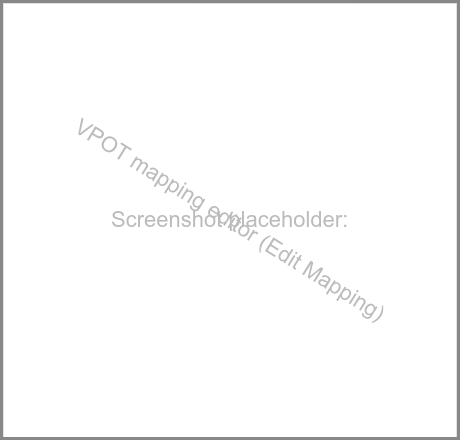
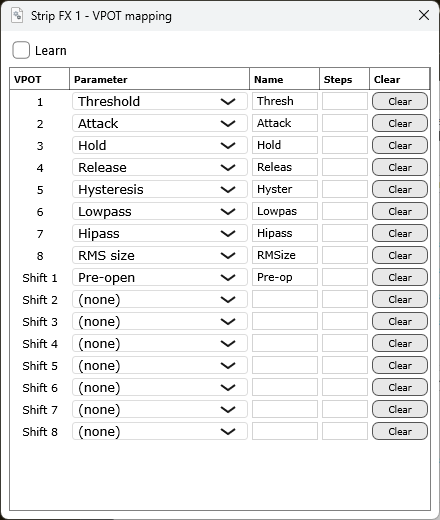
improved manual

diff --git a/manual/text_en/plugmode.tex b/manual/text_en/plugmode.tex
@@ -1,6 +1,6 @@
 \subsection{FX-Mode}\label{plugmode} 
 
-The FX-Mode allows you to edit FX parameters. To structure the hugh
+The FX-Mode allows you to edit FX parameters. To structure the huge
 amount of parameters that a FX can have, the parameters are divided
 into "Banks" and "Pages". Each Page can control up to 16 parameters (8
 with the \faders and 8 with the \vpots), and each Bank contains 8
@@ -8,7 +8,7 @@ Pages. A map consists of 8 Banks.
 
 The parameters mapped to \faders are controlled as continuous
 parameters (like e.g. thresholds, frequencies, etc.), the parameters
-mapped to \vpots are handled as discreet parameters with a limited
+mapped to \vpots are handled as discrete parameters with a limited
 number of values (e.g. for On/Off buttons or the selection of a
 Waveform). The \flip button bypasses the FX, the master fader controls
 the Dry/Wet level, holding the \alt modifier and pressing \flip
@@ -18,9 +18,7 @@ alternative to enabling/disabling certain plugins if you're attempting
 to assess the audible qualities the plugin imparts on the source.
 
 
-Factory FX maps are not included in the current testing builds. A
-future ReaPack distribution is planned and will include the factory maps
-again. You can also create your own maps for the selected FX using the
+You can also create your own maps for the selected FX using the
 \mapeditor (see section~\ref{createmaps} for details). If no map exists
 for an FX, a mapping is created automatically. In this case parameters
 that are detected as discrete (e.g.\ on/off switches or waveform
@@ -40,7 +38,7 @@ Bank/Page is selected, it illuminates, if the Bank/ Page contains parameters
 that can be controlled, or is off if neither is the case.
 
 An FX can be selected by pressing the \plug button of the VPOT ASSIGN
-section a second time. Then the names of up to six FXs are displeyed
+section a second time. Then the names of up to six FXs are displayed
 and can be selected by pressing the corresponding \vpot. The two other
 \vpots allow you to scroll through the FXs. An FX can also be selected
 by pressing the \select buttons. They select one of the first 8 FXs,
@@ -51,7 +49,7 @@ FXs 9-16.
 
 \subsubsection{Map Creation}\label{createmaps}
 
-You can create your own maps can with the
+You can create your own maps with the
 \hyperref[F:Screenshot_Plug_Mode]{Mapping editor} which can be opened
 via \alt \plug (see Figure~\ref{F:Screenshot_Plug_Mode}). 
 
@@ -80,7 +78,7 @@ created short names use a heuristic that keeps them distinguishable
 on the display.
 
 When an FX is selected via the MCU or the name of the selected FX is
-changed in the Track FX dialog, a map is loaded if it's name is part
+changed in the Track FX dialog, a map is loaded if its name is part
 of the FX name. E.g.  if the FX name is "VST: ReaEQ (Cockos)" and a
 map "ReaEQ" exists, this map will be loaded. First the user-created
 maps \footnote{Which are stored in the {\tt My
@@ -101,9 +99,7 @@ loaded automatically. The FX is matched to the maps using the FX name
 in the FX: Track window of \reaper. It is important to keep in mind
 that FX maps are not cached in the memory (except
 \hyperref[localmaps]{Local maps} which are explained in the next
-section). Factory maps are currently absent from the testing downloads;
-see section~\ref{installation} for the planned ReaPack distribution.
-So if you edit a map and then select a different FX, these changes are lost. When you start to work on a map, it is a good idea
+section). So if you edit a map and then select a different FX, these changes are lost. When you start to work on a map, it is a good idea
 to save an empty map and activate the Autosave option in the Mapping
 editor (you must save the map first, so that the Autosave function
 knows a filename). When Autosave is enabled, the map will be saved
@@ -227,7 +223,7 @@ Table~\ref{T:plugmode_options2} for details.
 \subsubsection{Summary}
 
 \begin{itemize}
-\item \vpot: Control discreet parameters. You can select the next
+\item \vpot: Control discrete parameters. You can select the next
   value by pressing the \vpot. In combination with \shift you select
   the previous. If it was the highest value, you will jump to the
   lowest (e.g. if only two values exist e.g. Off and On, you will

diff --git a/manual/text_en/installation.tex b/manual/text_en/installation.tex
@@ -1,35 +1,36 @@
 \newpage
 \section{Installation}\label{installation} 
 
-The current test builds of the extension can be downloaded from
-\url{https://sync.luckycloud.de/d/8b55110a1a8b41f3b18b/}. The folder currently
-contains builds for all three supported platforms:
-\begin{itemize}
-\item Windows: choose the package containing the \texttt{.dll}; use this on
-  64-bit Windows.
-\item Linux: choose the package containing the \texttt{.so}; use this on
-  Linux x86\_64.
-\item macOS: choose the package containing the \texttt{.dylib}; use this on
-  Apple Silicon
-  Macs (arm64) running macOS 11 or newer. The macOS build does not support
-  Intel Macs.
-\end{itemize}
-During the testing phase, the downloads do not include the FX maps. A switch
-from the test-build downloads to ReaPack is planned; the FX maps will be
-included again with that distribution.
+The current (latest) builds of the extension can be always downloaded from
+\url{https://sync.luckycloud.de/d/8b55110a1a8b41f3b18b/}. The download
+page offers two options: the ``Download data'' button creates a single zip
+archive containing the builds for all three supported platforms, or the
+individual files can be downloaded separately.
 
-To install the extension:
+To install the extension the first time:
 \begin{enumerate}
-\item open the \reaper resources path, e.g. via
+\item Download the complete folder via the ``Download data'' button.
+\item Open the \reaper resources path, e.g. via
 \reaper by selecting the menu-entry: {\tt Options/ Show \reaper
   resource path in explorer/finder...}.
 \item Locate the {\tt UserPlugins} folder within the \reaper resource path.
-\item Unpack the downloaded package into the {\tt UserPlugins} directory.
+\item Unpack the downloaded zip archive and copy its complete
+  contents into the {\tt UserPlugins} directory.
 \end{enumerate}
 
-Afterwards, the {\tt UserPlugins} folder contains the platform-specific
-{\tt reaper\_csurf\_mcu\_klinke} plugin file. The testing downloads do not
-contain the {\tt MCU} folder or factory FX maps. Your own configuration files
+Afterwards, the {\tt UserPlugins} folder contains the
+plugin files of all three platforms; \reaper loads the file matching the
+platform it runs on, leaving the other two files in place is harmless:
+\begin{itemize}
+\item Windows: the \texttt{.dll}; use this on 64-bit Windows.
+\item Linux: the \texttt{.so}; use this on Linux x86\_64.
+\item macOS: the \texttt{.dylib}; use this on Apple Silicon Macs (arm64)
+  running macOS 11 or newer. The macOS build does not support Intel Macs.
+\end{itemize}
+
+To update the extension, it is sufficient to overwrite the existing
+platform-specific plugin file in the {\tt UserPlugins} folder with the new
+one. Your own configuration files
 and FX maps are stored in the folder {\tt My Documents\textbackslash Reaper\textbackslash MCU}
 on Windows and in {\tt ~/.config/REAPER/MCU} on Linux and macOS. These folders
 are created when you start the \mcu surface for the first time.\\ 

diff --git a/manual/text_en/panmode.tex b/manual/text_en/panmode.tex
@@ -74,9 +74,9 @@ idea behind this is that the folder structure corresponds to
 sub-mixes, and you can easily select and work on a single sub-mix or
 go back a step and mix only on the level of the sub-mixes. This can
 improve track navigation a lot.\footnote{Theoretically, you can create a
-  structure with 584 tracks and each track is no more then five clicks
+  structure with 584 tracks and each track is no more than five clicks
   away. Or in combination with the \hyperref[quickjump]{Quick Jump}
-  feature, no more then three click.} When you switch to Folder-Mode, only
+  feature, no more than three clicks.} When you switch to Folder-Mode, only
 tracks are shown that have the Master track as their root. For all
 tracks that have children, the LED below the \vpot is illuminated. You can
 select these tracks as a new root track by pressing the
@@ -86,7 +86,7 @@ the root track, press the \gv button.
 \subsubsection{Editor}\label{panmodeeditor}
 Before other concepts are introduced, it is useful to take a look at the
 \hyperref[F:Screenshot_Track_Mode]{Track Settings Editor} in
-Figure~\ref{F:Screenshot_Track_Mode}.\footnote{To safe space, the screenshot
+Figure~\ref{F:Screenshot_Track_Mode}.\footnote{To save space, the screenshot
 displays less tracks then the real editor.} You can open this editor by pressing
 \alt \pan. 
 
@@ -140,7 +140,7 @@ anchor tracks are shown on the MCU even when they are not part of the
 sub-mix displayed.
 
 I suggest avoiding gaps between anchored Channel Strips because otherwise navigation
-throgh tracks can get confusing.
+through tracks can get confusing.
 
 It is possible to turn off all anchors via the ``Use Anchor''
 \attribute in the \hyperref[T:multitrack_options1]{Main Options}, in
@@ -164,7 +164,7 @@ Pads for this purpose:
 \begin{compactitem}
 \item Jump Slot: This column determines the tracks which can be
   selected as leftmost shown tracks.
-\item J. Name: If empty, the name displayd will be the same as the
+\item J. Name: If empty, the name displayed will be the same as the
   track name. It can be useful to replace the track name by a
   different name in the Quick Jump display.  E.g. if the track is
   named ``BD'' and the following tracks are named ``SD'', ``Hi Hat''
@@ -189,7 +189,7 @@ already explained in the sections before.
 
 The 2nd Options are shown in Table~\ref{T:multitrack_options2}. They allow to
 synchronize the tracks in the TCP/mixer to the tracks shown on the MCU, or, in
-the caseof the TCP, only the tracks are shown that are selected.
+the case of the TCP, only the tracks are shown that are selected.
 
 \pikTable[15cm]{multitrack_options2}{2nd Options in Pan-Mode and Action-Mode
 (\shift \option)}{}{} 

diff --git a/manual/text_en/channelstrip.tex b/manual/text_en/channelstrip.tex
@@ -98,7 +98,7 @@ Strip-Mode editor}, which can be opened with \alt \track (see
 Figure~\ref{F:Screenshot_ChannelStrip_Mode}). The editor is global: it shows
 the 16 channel strip FXs independently of the selected track or unit.
 
-\pikFigure[0.62][11.5cm][-2.4mm]{Screenshot_ChannelStrip_Mode}{Channel
+\pikFigure[0.62][13.9cm][-2.4mm]{Screenshot_ChannelStrip_Mode}{Channel
   Strip-Mode editor (\alt \track)}{}{}
 
 Each row of the table represents one of the 16 global strips. The columns
@@ -146,8 +146,8 @@ The ``Edit Mapping'' button of a strip FX opens the
 Figure~\ref{F:Screenshot_ChannelStrip_Mapping}). It shows 16 rows
 (VPOT 1\,--\,8 and Shift 1\,--\,Shift 8), one for each \vpot of the strip.
 
-\pikFigure[0.6][9.0cm][-2.2mm]{Screenshot_ChannelStrip_Mapping}{VPOT mapping
-  editor (\texttt{Edit Mapping})}{}{}
+\pikFigure[0.62][7.7cm][-2.2mm]{Screenshot_ChannelStrip_Mapping}{Strip mapping
+  editor}{}{}
 
 For each row you select the parameter of the strip's plugin that the
 \vpot should control in the \textbf{Parameter} column. The parameter

diff --git a/manual/text_en/support.tex b/manual/text_en/support.tex
@@ -8,6 +8,14 @@ e.g. via this thread
 And an issue tracker can be found at
 \url{https://github.com/s-fuerst/CSurf_Klinke_MCU/issues}.
 
+\subsection{AI-Assisted Development}
+Since version 0.9.5, the development of the extension takes place with
+the aid of AI/LLMs. If this bothers you, the last version developed
+without AI support is 0.9.1.3, which can be downloaded from
+\url{https://sync.luckycloud.de/d/a1228aa877344415}. Please note
+that this version is Windows-only and does not include the extender
+support introduced in version 0.9.5.
+
 \subsection{Donations}
 Writing the plugin was a lot of work (but also fun most of the time),
 writing this manual too (without the fun part). So acknowledgments in the

diff --git a/manual/text_en/sendmode.tex b/manual/text_en/sendmode.tex
@@ -32,7 +32,7 @@ the \rec buttons and press then one of the Automation Mode buttons.
 
 \subsubsection{Meterbridge}
 In the Send-Mode, the Meterbridge shows the levels of the receiving
-(or sending) tracks (and not the amount of the signal that is send to
+(or sending) tracks (and not the amount of the signal that is sent to
 (or from) the track). On the \textsc{Icon QCon Pro X} the master
 section of the meterbridge shows the level of the selected track (and
 not of the master track), since this is also the signal controlled with

diff --git a/manual/text_en/credits.tex b/manual/text_en/credits.tex
@@ -5,7 +5,7 @@ I want to thank:
 \item Icon Pro Audio for sending me a QCon Pro X
 \item Kathrin for proof-reading the v0.8.0 manual and being such a great
   hiking companion
-\item Alex Hayes (plant-on) and Carlos Nunes for commiting bugfixes
+\item Alex Hayes (plant-on) and Carlos Nunes for committing bugfixes
   and improving the code
 \item Justin for always improving the \reaper API when I need
   additional features (and of course \reaper in general)

diff --git a/manual/text_en/actionmode.tex b/manual/text_en/actionmode.tex
@@ -35,7 +35,7 @@ editor}.
 
 Additionally the Action-Mode also supports  ``(midi cc only)'' actions. Therefore
 you can enable in the \hyperref[F:Screenshot_Action_Mode]{Action-Mode
-editor} the ``Relative Mode'', then the CCs that are send to \reaper are
+editor} the ``Relative Mode'', then the CCs that are sent to \reaper are
 ``Relative 2'' instead of ``Absolute''. 
 
 \pikWrapFigure[][6.1cm][-2.5mm]{assignrelativ}{Assignment dialog}{}{}

diff --git a/manual/text_en/region.tex b/manual/text_en/region.tex
@@ -4,7 +4,7 @@
 \bemod
 \begin{itemize}
 	\item \control: Store Marker 1--8
-	\item \shift: Create Loop from currect EditCursor position to Marker 1--8
+	\item \shift: Create Loop from current EditCursor position to Marker 1--8
 	\item \shift \option: Change Time Selection from current EditCursor position to Marker 1--8
 	\item \shift \alt: Same as Shift F1-F8
 	\item \option: Set Time Selection to Region 1--8

diff --git a/manual/text_en/overview.tex b/manual/text_en/overview.tex
@@ -4,7 +4,7 @@
 
 %% Figure~\ref{F:MCU_Overview} shows the MCU hardware and how its elements are
 %% partitioned:
-The elements of the Mackie Controller/Icon QCon Pro X are seperated
+The elements of the Mackie Controller/Icon QCon Pro X are separated
 into the following sections:
 
 \begin{itemize}

diff --git a/manual/tables_en/multitrack_options2.tex b/manual/tables_en/multitrack_options2.tex
@@ -26,7 +26,7 @@ show only the tracks in the Mixer that are also shown on the MCU\\
 \rowcolor{TC2}
 Follow \reaper&
 no&
-The accessible tracks at the MCU can be only changed via the MCU ifself.\\
+The accessible tracks at the MCU can be only changed via the MCU itself.\\
 \rowcolor{TC1}
 &
 yes&
